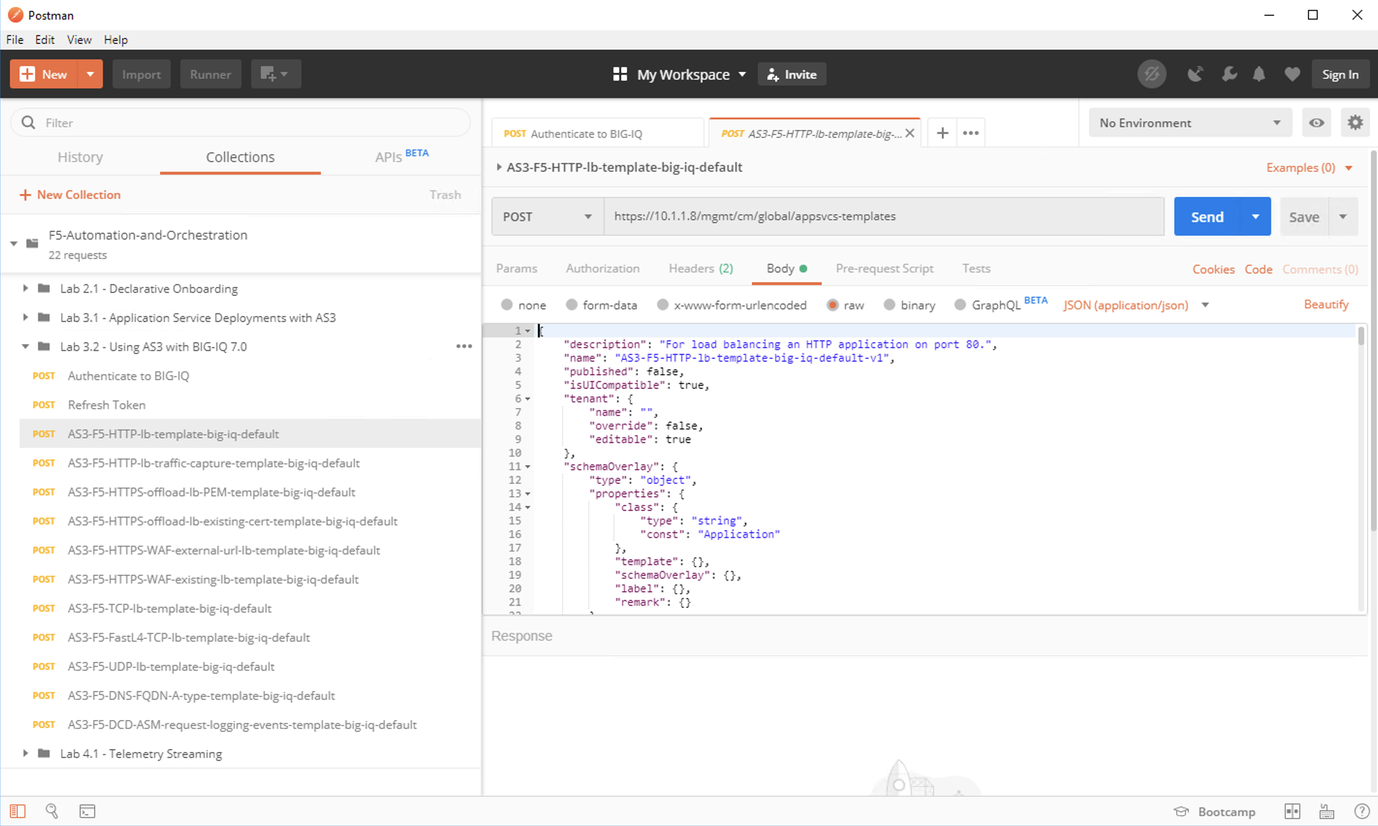
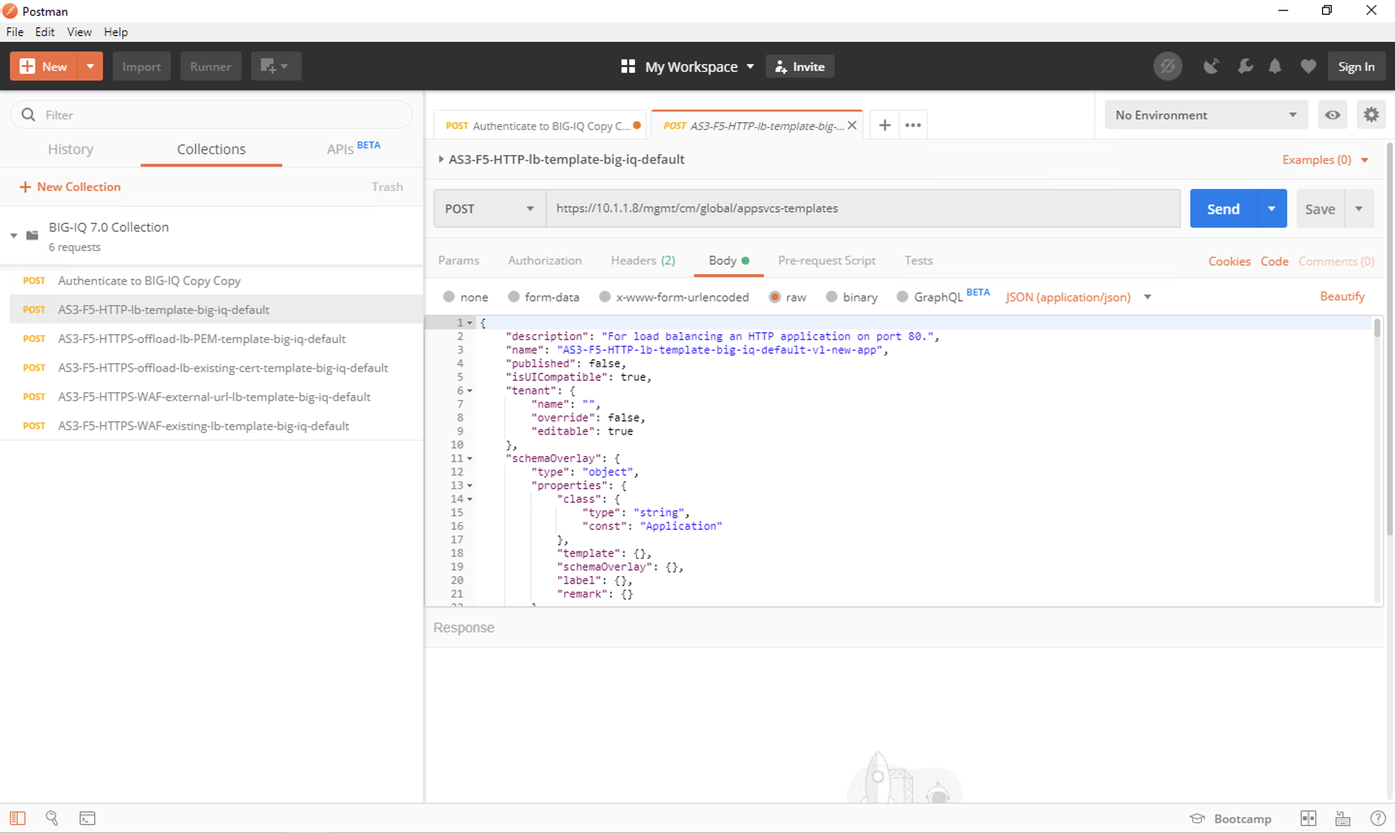
jack update

diff --git a/docs/_build/html/searchindex.js b/docs/_build/html/searchindex.js
@@ -1,1 +1,1 @@
-Search.setIndex({docnames:["class2/class2","class3/class3","class3/module/do","class4/class4","class4/module/lab1","class4/module/module","class4/module2/lab2","class4/module2/module2","class5/class5","class5/module/telemetry","index"],envversion:52,filenames:["class2/class2.rst","class3/class3.rst","class3/module/do.rst","class4/class4.rst","class4/module/lab1.rst","class4/module/module.rst","class4/module2/lab2.rst","class4/module2/module2.rst","class5/class5.rst","class5/module/telemetry.rst","index.rst"],objects:{},objnames:{},objtypes:{},terms:{"class":[2,4,9],"default":[2,4,6,9],"goto":[],"import":7,"new":[5,6,9],"true":[2,4],"var":[],"while":8,ASE:[],AWS:[0,8,10],And:[],DNS:[0,1,2,3,4,5,6,7,8,9,10],For:[6,8,9],IPs:2,One:[],That:[],The:[0,1,2,3,4,5,6,7,8,9,10],These:[],Use:[2,6],Using:[3,10],With:6,_build:[],_static:[],_templat:[],abl:6,abov:6,accept:[],access:[0,1,2,3,4,5,6,7,8,9,10],account:8,achiev:[],action:[4,9],activ:[],adc:4,add:[2,5,6,9],added:[],address:[0,2,6,9],admin123:0,admin:[0,2,4,6,9],administr:[0,9],adminstr:[2,4],admonit:[],advanc:[0,1,2,3,4,5,6,7,8,9,10],afm:[],after:[],again:[],agil:[],agnost:3,all:[0,2,4,9],allowservic:2,along:9,alpha:[],alreadi:[2,4],alredi:9,also:[4,9],amazon:[],amazoncloudwatch:[],amount:8,ani:9,anoth:3,ao_log_group:[],ao_log_stream:[],api:[0,1,2,3,4,5,6,7,8,9,10],apirefer:[],apm:[],app:[0,1,3,5,6,7,8,9,10],app_made_by_as3_templ:6,applianc:[],applic:[0,1,2,4,5,7,8,9,10],application_1:[],appropri:[],approv:0,appsvc:4,as3:[0,4,10],asm:[],aspect:10,assign:[],assum:[1,3,8],assumpt:[1,3,8],async:2,attach:9,attent:[],auth:[2,4,9],authent:6,authn:6,author:[2,4,9],autom:[0,1,2,3,4,5,6,7,8,9,10],automatit:6,avail:9,averag:8,avg:[],awesom:[],aws:8,aws_cloudwatch:9,back:[2,9],bad:[],ball:[],bar:[2,4,6,9],bare:[],basic:[2,4,9],bat:[],becaus:9,been:[0,9],befor:[],begin:9,being:9,below:[2,6,9],big:[0,1,3,5,8,10],bigip:4,bigiq_app_ten:[],bigiq_app_test:[],bigiq_public_api_ref:[],bigiqapp:[],bigiqv:[],bip:[],biq:[],blank:[],blob:[],block:[],blue:[6,9],blueprint:[2,4,9],board:[],bodi:[2,4,6,9],bold:[],bookmark:[6,9],border:[],both:[],bottom:[2,4,9],box:[4,6],bravo:[],browser:[0,1,4,6,8,9],bug:[0,1,2,3,4,5,6,7,8,9,10],build:[],busi:8,button:[2,4,6,9],call:[0,4],callout:[],can:[0,1,2,3,4,5,6,7,8,9,10],care:[],carefulli:[],caution:[],cell:[],cert:[],certif:[2,4,6,9],chang:6,charli:[],check:[2,4,6,9],choos:[],chrome:[0,2,4,6,9],ciphertext:9,claim:6,class1:[],class2:[],class3:[],class4:[],class5:[],class7:[1,3,8],classbold:[],classital:[],classnam:[],clear:4,click:[1,2,4,6,8,9],close:9,cloud:8,clouddoc:[1,2,3,8],cloudwatch:[8,10],code:[],collect:[5,7,8,9],com:[0,1,2,3,4,5,6,7,8,9,10],combin:9,command:[],common:[2,4,9],commun:[1,3,8],complet:[1,3,8],complianc:9,compon:[0,2,4,9],comput:2,conf:[],config:[],configur:[1,3,5,8,10],connect:8,consol:9,consum:8,contain:[0,1,2,3,4,5,6,7,8,9,10],content:[0,1,2,3,4,5,6,7,8,9,10],control:[0,1,2,3,4,5,6,7,8,9,10],conveni:[],copi:9,correct:4,correspond:6,could:8,cover:[],creat:[5,7,9],credenti:[0,2,4,9],crowbar:[],current:9,custom:[],custom_filtter_1:[],custom_metric_1:[],cut:[],cutter:[],dai:[8,9],danger:[],dash:[],dashboard:9,data:8,datacent:[],dcd:0,declar:[0,5,6,9,10],declarati:6,delet:4,deliveri:[0,1,2,3,4,5,6,7,8,9,10],demo:[1,2,3,4,8,9],deploi:[5,8,10],deploy:[2,4,6,9],descript:[],desktop:6,detail:[2,4,9],dev:1,devic:2,devop:[0,1,2,3,4,5,6,7,8,9,10],differ:[],disabl:[],dismiss:9,dist:[],dns:[],doc:[],document:8,don:2,done:[],dot:[2,4,9],down:[],download:9,dropdown:[2,4,6,8,9],drwxr:[],durat:9,edit:[0,1,2,3,4,5,6,7,8,9,10],electr:[],element:[],email:1,emphasi:[],empti:6,enabl:[],end:[2,4,6,9],enforc:[0,1,2,3,4,5,6,7,8,9,10],enhanc:[0,1,2,3,4,5,6,7,8,9,10],ensur:6,enter:[2,4,6,8,9],entri:9,environ:10,equival:[],error:6,etc:6,eval:[],examin:[],exampl:[],exclus:0,existing_pool:9,existing_v:9,exit:[2,4,9],expand:[2,4,9],expect:[1,3,8],expir:6,expos:9,extend:8,extens:[2,10],extern:[0,2],external_default_gatewai:2,extrem:[],f5devcentr:[0,1,2,3,4,5,6,7,8,9,10],f5i:[],f5network:[],facilit:[1,3,8],fals:2,familiar:10,featur:6,feder:[1,8,9],few:0,figur:[],file:[2,4,6,9],filter:[],find:9,firefox:[],firewal:[0,1,2,3,4,5,6,7,8,9,10],first:[],fix:6,flow:[],focu:[],folder:6,follow:[0,1,2,3,4,6,8,9],font:[],fontawesom:[],fonticon:[],format:[],found:9,four:[],from:[0,1,2,3,4,5,7,8,9,10],full:[0,1,2,3,4,5,6,7,8,9,10],futur:9,gear:[],gener:[1,2,4,6,8,10],get:[1,3,4,8,9,10],github:[0,1,2,3,4,5,7,8,9,10],githubusercont:6,give:9,global:[0,1,2,3,4,5,6,7,8,9,10],gmsmr:2,goal:[1,3,8],going:6,goodbaklava123:[0,2,6],googl:0,govern:9,grai:[],grap:[],graph:[],great:[],green:[2,4,9],grei:[2,4,9],grid:[],group:[2,8,10],gtm:[],gui:6,guid:[1,3,8],guidelin:[],hammer:[],handi:1,hardwar:[],has:[2,4,6],have:[0,2,4,9],header:[],heavi:[],help:10,here:[0,1,2,3,4,5,6,7,8,9,10],highlight:9,hint:[],home:[],host:8,hostnam:[2,6],hour:[1,3,8],how:[1,3,5,7,8],howev:[],html:[1,2,3,8],http:[0,1,2,3,4,5,6,7,8,9,10],http_basic:4,http_default:4,http_index:4,http_pool:4,http_profil:[],hyperlink:[],hypervisor:[],iam:[8,10],iapp:[],icon:[],icontrol:[0,1,2,3,4,5,6,7,8,9,10],ident:9,ieldt:2,ignor:[],iii:[],imag:[],image001:[],inc:[0,1,2,3,4,5,6,7,8,9,10],includ:0,index:[],info:[2,9],inform:[6,8],insert:[],insight:9,inspect:9,instal:[0,2],instruct:[],instructor:[],integr:[1,3,8],intellig:[0,1,2,3,4,5,6,7,8,9,10],interact:0,interfac:2,intern:[0,2],interv:9,intro:[],invalid:6,ipi:[],isn:2,issu:[0,1,2,3,4,5,6,7,8,9,10],ital:[],item:[],its:9,iwf:[],iworkflow:[0,1,2,3,4,5,6,7,8,9,10],jaustinf5:6,json:[2,4,6,9],jsp:[],jump:[],jumphost:0,jumppost:0,jun:[],justif:8,keep:1,kei:[0,1,2,8,9],knife:[],knive:[],know:[1,3,8],kqokz:2,lab1:[1,3,8],lab2:[],lab:[1,2,3,4,6,8,9],label:[],lamp:[],languag:[],latest:2,learn:[5,7],left:[2,4,6,9],let:9,leverag:[0,1,2,3,4,5,6,7,8,9,10],lic:[],licens:[1,2],licensetyp:2,lick:[],lift:[],light:[],like:[],line:2,link:6,linux:0,list:[2,9],load:6,local:[0,1,2,3,4,5,6,7,8,9,10],locat:[],log:[2,8,10],loggroup:9,login:[5,6,9],logstream:9,look:[],ltm:2,lwbzexewl9at:[],machin:0,made:[0,1,2,3,4,5,6,7,8,9,10],mai:[],main:0,make:[0,4,6],makefil:[],manag:[0,1,2,3,4,5,6,7,8,9,10],mani:8,manual:2,map:[6,9],mark:[],markdown:[],markup:[],mart:[],master:6,math:[],member:4,menu:[2,4,6,9],method:[2,4,8,9],metric:[],mgmt:[2,4,6,9],mine:6,minut:[],modifi:[],modul:[5,7,9],module1:[1,3,8],module2:[],monitor:4,monitortyp:[],more:[],mtu:2,muczt:2,must:[],my_as3_app:4,my_as3_ten:4,my_consum:9,my_listen:9,my_log_group:9,my_system:9,my_us:9,mydn:2,mylicens:2,myntp:2,myprovis:2,name:[2,4,6,9],nameserv:2,navig:[1,2,4,6,8,9],need:[],nest:6,net:[],network:[0,1,2,3,4,5,6,7,8,9,10],new_partit:4,newli:[2,4,9],next:[1,2,4,6,9],noarch:[],nomin:2,none:2,note:9,notic:6,novfibg:2,now:[2,4,6,8],ntp:2,number:[],off:[2,4,6,9],onboard:[0,6,10],onc:[0,6,9],one:[2,3,4,9],onli:2,onto:[],open:[0,1,2,3,4,5,6,7,8,9,10],option:[],orchestr:[0,1,2,3,4,5,6,7,8,9,10],order:[],org:2,origin:[],other:[],our:[4,6],out:0,outsid:0,overwrit:2,packag:9,page:[2,4,6,9],pane:[],partit:[4,6,9],passphras:9,password:[2,4,6,9],past:[2,4,6,9],patch:2,perform:0,permiss:9,persist:4,phase:[],phillip:[],photo:[],pipelin:[0,1,2,3,4,5,6,7,8,9,10],place:[],plane:[],platform:8,pleas:[],png:[],point:0,polici:[0,1,2,3,4,5,6,7,8,9,10],pool:[0,2,4,6,9],pool_with_vip:[],pop:[2,4,6,9],port:[6,9],post:[2,4,9],postman:[0,1,3,5,7,8,10],postman_collect:6,power:[],pre:6,preconfigur:9,prefer:0,prerequisit:[1,8],present:[2,4,9],previou:4,print:[],produc:9,product:2,profilehttp:4,programm:[],programmat:9,properti:6,provid:10,provis:2,publish:6,purpos:10,push:[],putti:[],queri:9,quickli:10,qweasdzxc123:[],r_auth_login:[],rackmount:[],radial:[2,4,9],rail:[],rather:[],raw:[2,4,6,9],rdp:[2,4,9],receiv:6,red:[],refer:[],refresh:[],refreshtoken:[],reg:[],region:9,regist:6,registeremail:[],regkei:2,relev:8,reload:9,remark:[],remov:[],replac:[],repo:[],repositori:[0,1,2,3,4,5,6,7,8,9,10],request:[0,1,2,3,5,6,7,8,9,10],requir:0,resend:6,resourc:[],respect:6,respons:6,rest:[0,1,2,3,4,5,6,7,8,9,10],restructuredtext:[],result:9,review:9,revok:2,right:[6,9],root:[],rout:2,row:[],rpm:[2,9],rst:[],run:9,safeti:[],sale:[],same:[],sampl:[],save:[2,4,9],schemavers:[2,4],scope:[],screen:[2,4,9],screenshot:[],screwdriv:[],scroll:[],search:[2,4,8,9],second:[],secret:[8,9],section:[1,3,4,6,8,9],secur:[0,1,2,3,4,5,6,7,8,9,10],see:[2,6,9],seen:6,select:[2,4,6,8,9],self:2,selfip:2,send:[1,5,7],server:[0,2,6,9],serveraddress:4,servic:[4,6,8,9,10],service_gener:4,service_http:6,servicenow:[],serviceport:4,session:9,set:[1,2,4,6,9],setup:[0,8,10],share:[2,4,6,9],sharp:[],shell:[],should:[2,4],show:[],shown:[],sign:[2,4,9],similar:6,simpl:[],simplifi:3,sinc:[],site:[],skip:[2,4,9],soap:[0,1,2,3,4,5,6,7,8,9,10],softwar:[],some:10,sourc:[0,1,2,3,4,5,6,7,8,9,10],span:[],sphinx:[],spin:[],ssl:[2,4,6,9],stabl:[],staff:[],stand:[],start:[1,3,4,8,10],statu:2,step:4,sticki:9,store:6,straight:[2,4,9],stream:[0,9,10],submit:8,substitut:[],success:[],sum:[],support:[],sure:[4,6],surfac:[],syntax:[],sys:[],system:[0,2,4,9],systempol:9,tab:[2,4,6,9],tabl:[],tag:[2,9],take:[2,4,8,9],target:6,task:[],teach:[],technolog:8,telemetri:[0,9,10],telemetry_consum:9,telemetry_listen:9,telemetry_system:9,templat:[4,7],tenant:[2,4,6],test:0,test_log_group:9,test_log_stream:9,test_us:[],text:[2,4,9],than:[],them:9,theme:[],themselv:[],thi:[0,1,2,3,4,5,6,7,8,9,10],thing:[0,2],three:[2,4,9],through:0,ticket:8,tile:[1,2,4,8,9],time:[1,3,4,8,9],timeout:[],timezon:2,tip:[],titl:6,tmo:[],tmsh:[],todo:[],todo_emit_warn:[],todo_include_todo:[],todolist:[],togeth:[],toggl:[2,4,9],token:6,tool:1,toolchain:[2,4,9,10],top:[6,9],topic:[],topolog:10,total:[],touch:[],trace:4,traffic:[0,1,2,3,4,5,6,7,8,10],trafficgroup:2,train:[1,3,8],tree:[],turn:6,tutori:[1,3,8],two:[],type:[2,4,6,9],udf:[5,8,10],under:[2,4,9],unord:[],until:[2,4,9],upgrad:3,upload:[6,9],uri:[2,6],url:[2,4,9],use:[1,3,4,5,7,8],used:[],user:[8,10],usernam:[2,4,6,9],uses:8,using:[0,1,2,3,4,5,6,7,8,9,10],utc:2,util:2,v12:[],v13:0,v14:0,v16:[],valu:6,verif:[2,4,9],verifi:4,verificatt:6,verison:[],version:[3,6],via:[],view:[7,8,10],vip:6,virtual:[0,1,2,3,4,5,6,7,8,9,10],virtual_serv:4,virtualaddress:4,virtualport:4,vlan:[0,2],waf:[1,3,8],wai:0,wait:[2,4,9],want:8,warn:[],web:[],webserv:[],websit:[],welcom:10,west:2,when:[1,6],whenev:[],which:[0,2,4,9],win2016:[2,4,9],window:[0,2,4,6,9],within:[0,1,2,3,4,5,6,7,8,9,10],without:7,work:[0,6],workd:[],would:[],www:[],xubuntu:[],year:[],yes:[],ylwbzexewl9at:[0,2,4],you:[0,1,2,3,4,5,6,7,8,9,10],your:[0,1,2,6,8,9],zero:[]},titles:["1. Environments &amp; Lab Topology","2. Declarative Onboarding","2.1. Declarative Onboarding \u2013 Getting Started","3. Application Services 3 Extension (AS3)","3.1.1. Deploy UDF","3.1. AS3 \u2013 Getting Started","3.2.1. Using AS3 with BIG-IQ 7.0","3.2. Using AS3 with Big-IQ","4. Telemetry Streaming","4.1. Setup AWS CloudWatch IAM User","F5 Agility Labs - Index"],titleterms:{"class":[],"import":6,"new":4,AWS:9,One:[],Using:[6,7],With:[],accept:[],add:4,admonit:[],agil:10,also:[],app:[2,4],applianc:[],applic:[3,6],as3:[3,5,6,7],attent:[],autom:[],awesom:[],big:[2,4,6,7,9],browser:[],caution:[],chang:2,clear:[],cloudwatch:9,code:[],collect:[2,4,6],column:[],common:[],compon:[],configur:[2,4,9],connect:[],cord:[],creat:[2,4,6],custom:[],danger:[],datacent:[],declar:[1,2,4],deploi:[2,4,9],download:[],edit:[],emphasi:[],enabl:[],environ:0,error:[],exampl:[],extens:3,extern:[],file:[],font:[],format:[],four:[],from:6,gener:9,get:[2,5],giant:[],github:6,grid:[],group:9,hint:[],hyperlink:[],hypervisor:[],iam:9,icon:[],icontrol:[],imag:[],index:10,instal:[],instanc:[],intern:[],lab:[0,10],let:[],list:[],log:9,login:[2,4],map:[],markdown:[],markup:[],metric:[],modul:[],nest:[],network:[],note:[],onboard:[1,2],open:[],option:[],orchestr:[],order:[],partit:[],phase:[],postman:[2,4,6,9],power:[],pre:[],prerequisit:[],rack:[],rdp:[],request:4,requir:[],rpm:[],sampl:[],send:[2,4,6],servic:3,setup:9,show:[],simpl:[],start:[2,5,9],stream:8,stub:[],substitut:[],support:[],tabl:[],task:[],telemetri:8,templat:6,text:[],three:[],tip:[],tmsh:[],todo:[],togeth:[],topolog:0,traffic:9,turn:[],two:[],udf:[2,4,9],unord:[],unpack:[],upload:[],user:9,verifi:2,view:[6,9],virtual:[],warn:[],web:[],welcom:[],without:6,your:[]}})
+Search.setIndex({docnames:["class2/class2","class3/class3","class3/module/do","class4/class4","class4/module/lab1","class4/module/module","class4/module2/lab2","class4/module2/module2","class5/class5","class5/module/telemetry","index"],envversion:52,filenames:["class2/class2.rst","class3/class3.rst","class3/module/do.rst","class4/class4.rst","class4/module/lab1.rst","class4/module/module.rst","class4/module2/lab2.rst","class4/module2/module2.rst","class5/class5.rst","class5/module/telemetry.rst","index.rst"],objects:{},objnames:{},objtypes:{},terms:{"class":[2,4,9],"default":[2,4,6,9],"goto":[],"import":7,"new":[5,6,9],"true":[2,4],"var":[],"while":8,ASE:[],AWS:[0,8,10],And:[],DNS:[0,1,2,3,4,5,6,7,8,9,10],For:[6,8,9],IPs:2,One:[],That:[],The:[0,1,2,3,4,5,6,7,8,9,10],These:[],Use:[2,6],Using:[3,10],With:6,_build:[],_static:[],_templat:[],abl:6,abov:6,accept:[],access:[0,1,2,3,4,5,6,7,8,9,10],account:8,achiev:[],action:[4,9],activ:[],adc:4,add:[2,5,6,9],added:[],address:[0,2,6,9],admin123:[0,6],admin:[0,2,4,6,9],administr:[0,9],adminstr:[2,4],admonit:[],advanc:[0,1,2,3,4,5,6,7,8,9,10],afm:[],after:[],again:[],agil:[],agnost:3,all:[0,2,4,9],allowservic:2,along:9,alpha:[],alreadi:[2,4],alredi:9,also:[4,9],amazon:[],amazoncloudwatch:[],amount:8,ani:9,anoth:3,ao_log_group:[],ao_log_stream:[],api:[0,1,2,3,4,5,6,7,8,9,10],apirefer:[],apm:[],app:[0,1,3,5,6,7,8,9,10],app_made_by_as3_templ:6,applianc:[],applic:[0,1,2,4,5,7,8,9,10],application_1:[],appropri:[],approv:0,appsvc:4,as3:[0,4,10],asm:[],aspect:10,assign:[],assum:[1,3,8],assumpt:[1,3,8],async:2,attach:9,attent:[],auth:[2,4,9],authent:6,authn:6,author:[2,4,9],autom:[0,1,2,3,4,5,6,7,8,9,10],automatit:[],avail:9,averag:8,avg:[],awesom:[],aws:8,aws_cloudwatch:9,back:[2,9],bad:[],ball:[],bar:[2,4,6,9],bare:[],basic:[2,4,9],bat:[],becaus:9,been:[0,9],befor:[],begin:9,being:9,below:[2,6,9],big:[0,1,3,5,8,10],bigip:4,bigiq_app_ten:[],bigiq_app_test:[],bigiq_public_api_ref:[],bigiqapp:[],bigiqv:[],bip:[],biq:[],blank:[],blob:[],block:[],blue:[6,9],blueprint:[2,4,9],board:[],bodi:[2,4,6,9],bold:[],bookmark:[6,9],border:[],both:[],bottom:[2,4,9],box:[4,6],bravo:[],browser:[0,1,4,6,8,9],bug:[0,1,2,3,4,5,6,7,8,9,10],build:[],busi:8,button:[2,4,6,9],call:[0,4],callout:[],can:[0,1,2,3,4,5,6,7,8,9,10],care:[],carefulli:[],caution:[],cell:[],cert:[],certif:[2,4,6,9],chang:6,charli:[],check:[2,4,6,9],choos:[],chrome:[0,2,4,6,9],ciphertext:9,claim:6,class1:[],class2:[],class3:[],class4:[],class5:[],class7:[1,3,8],classbold:[],classital:[],classnam:[],clear:4,click:[1,2,4,6,8,9],close:9,cloud:8,clouddoc:[1,2,3,8],cloudwatch:[8,10],code:[],collect:[5,7,8,9],com:[0,1,2,3,4,5,6,7,8,9,10],combin:9,command:[],common:[2,4,9],commun:[1,3,8],complet:[1,3,8],complianc:9,compon:[0,2,4,9],comput:2,conf:[],config:[],configur:[1,3,5,8,10],connect:8,consol:9,consum:8,contain:[0,1,2,3,4,5,6,7,8,9,10],content:[0,1,2,3,4,5,6,7,8,9,10],control:[0,1,2,3,4,5,6,7,8,9,10],conveni:[],copi:9,correct:4,correspond:6,could:8,cover:[],creat:[5,7,9],credenti:[0,2,4,9],crowbar:[],current:9,custom:[],custom_filtter_1:[],custom_metric_1:[],cut:[],cutter:[],dai:[8,9],danger:[],dash:[],dashboard:9,data:8,datacent:[],dcd:0,declar:[0,5,6,9,10],declarati:[],delet:4,deliveri:[0,1,2,3,4,5,6,7,8,9,10],demo:[1,2,3,4,8,9],deploi:[5,8,10],deploy:[2,4,9],descript:[],desktop:6,detail:[2,4,9],dev:1,devic:2,devop:[0,1,2,3,4,5,6,7,8,9,10],differ:[],disabl:[],dismiss:9,dist:[],dns:[],doc:[],document:8,don:2,done:[],dot:[2,4,9],down:[],download:9,dropdown:[2,4,6,8,9],drwxr:[],durat:9,edit:[0,1,2,3,4,5,6,7,8,9,10],electr:[],element:[],email:1,emphasi:[],empti:6,enabl:[],end:[2,4,6,9],enforc:[0,1,2,3,4,5,6,7,8,9,10],enhanc:[0,1,2,3,4,5,6,7,8,9,10],ensur:6,enter:[2,4,6,8,9],entri:9,environ:10,equival:[],error:6,etc:[],eval:[],examin:[],exampl:[],exclus:0,existing_pool:9,existing_v:9,exit:[2,4,9],expand:[2,4,9],expect:[1,3,8],expir:6,expos:9,extend:8,extens:[2,10],extern:[0,2],external_default_gatewai:2,extrem:[],f5devcentr:[0,1,2,3,4,5,6,7,8,9,10],f5i:[],f5network:[],facilit:[1,3,8],fals:2,familiar:10,featur:6,feder:[1,8,9],few:0,figur:[],file:[2,4,6,9],filter:[],find:9,firefox:[],firewal:[0,1,2,3,4,5,6,7,8,9,10],first:[],fix:6,flow:[],focu:[],folder:[],follow:[0,1,2,3,4,6,8,9],font:[],fontawesom:[],fonticon:[],format:[],found:9,four:[],from:[0,1,2,3,4,5,7,8,9,10],full:[0,1,2,3,4,5,6,7,8,9,10],futur:9,gear:[],gener:[1,2,4,6,8,10],get:[1,3,4,8,9,10],github:[0,1,2,3,4,5,7,8,9,10],githubusercont:6,give:9,global:[0,1,2,3,4,5,6,7,8,9,10],gmsmr:2,goal:[1,3,8],going:6,goodbaklava123:[0,2,6],googl:0,govern:9,grai:[],grap:[],graph:[],great:[],green:[2,4,9],grei:[2,4,9],grid:[],group:[2,8,10],gtm:[],gui:6,guid:[1,3,8],guidelin:[],hammer:[],handi:1,hardwar:[],has:[2,4,6],have:[0,2,4,9],header:[],heavi:[],help:10,here:[0,1,2,3,4,5,6,7,8,9,10],highlight:9,hint:[],home:[],host:8,hostnam:[2,6],hour:[1,3,8],how:[1,3,5,7,8],howev:[],html:[1,2,3,8],http:[0,1,2,3,4,5,6,7,8,9,10],http_basic:4,http_default:4,http_index:4,http_pool:4,http_profil:[],hyperlink:[],hypervisor:[],iam:[8,10],iapp:[],icon:[],icontrol:[0,1,2,3,4,5,6,7,8,9,10],ident:9,ieldt:2,ignor:[],iii:[],imag:[],image001:[],inc:[0,1,2,3,4,5,6,7,8,9,10],includ:0,index:[],info:[2,9],inform:[6,8],insert:[],insight:9,inspect:9,instal:[0,2],instruct:[],instructor:[],integr:[1,3,8],intellig:[0,1,2,3,4,5,6,7,8,9,10],interact:0,interfac:2,intern:[0,2],interv:9,intro:[],invalid:6,ipi:[],isn:2,issu:[0,1,2,3,4,5,6,7,8,9,10],ital:[],item:[],its:9,iwf:[],iworkflow:[0,1,2,3,4,5,6,7,8,9,10],jaustinf5:6,json:[2,4,6,9],jsp:[],jump:[],jumphost:0,jumppost:0,jun:[],justif:8,keep:1,kei:[0,1,2,8,9],knife:[],knive:[],know:[1,3,8],kqokz:2,lab1:[1,3,8],lab2:[],lab:[1,2,3,4,6,8,9],label:[],lamp:[],languag:[],latest:2,learn:[5,7],left:[2,4,6,9],let:9,leverag:[0,1,2,3,4,5,6,7,8,9,10],lic:[],licens:[1,2],licensetyp:2,lick:[],lift:[],light:[],like:[],line:2,link:6,linux:0,list:[2,9],load:6,local:[0,1,2,3,4,5,6,7,8,9,10],locat:[],log:[2,8,10],loggroup:9,login:[5,6,9],logstream:9,look:[],ltm:2,lwbzexewl9at:[],machin:0,made:[0,1,2,3,4,5,6,7,8,9,10],mai:[],main:0,make:[0,4,6],makefil:[],manag:[0,1,2,3,4,5,6,7,8,9,10],mani:8,manual:2,map:[6,9],mark:[],markdown:[],markup:[],mart:[],master:6,math:[],member:4,menu:[2,4,6,9],method:[2,4,8,9],metric:[],mgmt:[2,4,6,9],mine:6,minut:[],modifi:[],modul:[5,7,9],module1:[1,3,8],module2:[],monitor:4,monitortyp:[],more:[],mtu:2,muczt:2,must:[],my_as3_app:4,my_as3_ten:4,my_consum:9,my_listen:9,my_log_group:9,my_system:9,my_us:9,mydn:2,mylicens:2,myntp:2,myprovis:2,name:[2,4,6,9],nameserv:2,navig:[1,2,4,6,8,9],need:[],nest:[],net:[],network:[0,1,2,3,4,5,6,7,8,9,10],new_partit:4,newli:[2,4,9],next:[1,2,4,6,9],noarch:[],nomin:2,none:2,note:9,notic:6,novfibg:2,now:[2,4,6,8],ntp:2,number:[],off:[2,4,6,9],onboard:[0,10],onc:[0,6,9],one:[2,3,4,9],onli:2,onto:[],open:[0,1,2,3,4,5,6,7,8,9,10],option:[],orchestr:[0,1,2,3,4,5,6,7,8,9,10],order:[],org:2,origin:[],other:[],our:[4,6],out:0,outsid:0,overwrit:2,packag:9,page:[2,4,6,9],pane:[],partit:[4,6,9],passphras:9,password:[2,4,6,9],past:[2,4,6,9],patch:2,perform:0,permiss:9,persist:4,phase:[],phillip:[],photo:[],pipelin:[0,1,2,3,4,5,6,7,8,9,10],place:[],plane:[],platform:8,pleas:[],png:[],point:0,polici:[0,1,2,3,4,5,6,7,8,9,10],pool:[0,2,4,6,9],pool_with_vip:[],pop:[2,4,6,9],port:[6,9],post:[2,4,9],postman:[0,1,3,5,7,8,10],postman_collect:6,power:[],pre:6,preconfigur:9,prefer:0,prerequisit:[1,8],present:[2,4,9],previou:4,print:[],produc:9,product:2,profilehttp:4,programm:[],programmat:9,properti:6,provid:10,provis:2,publish:6,purpos:10,push:[],putti:[],queri:9,quickli:10,qweasdzxc123:[],r_auth_login:[],rackmount:[],radial:[2,4,9],rail:[],rather:[],raw:[2,4,6,9],rdp:[2,4,9],receiv:6,red:[],refer:[],refresh:[],refreshtoken:[],reg:[],region:9,regist:6,registeremail:[],regkei:2,relev:8,reload:9,remark:[],remov:[],replac:[],repo:[],repositori:[0,1,2,3,4,5,6,7,8,9,10],request:[0,1,2,3,5,6,7,8,9,10],requir:0,resend:6,resourc:[],respect:[],respons:6,rest:[0,1,2,3,4,5,6,7,8,9,10],restructuredtext:[],result:9,review:9,revok:2,right:[6,9],root:[],rout:2,row:[],rpm:[2,9],rst:[],run:9,safeti:[],sale:[],same:[],sampl:[],save:[2,4,9],schemavers:[2,4],scope:[],screen:[2,4,9],screenshot:[],screwdriv:[],scroll:[],search:[2,4,8,9],second:[],secret:[8,9],section:[1,3,4,6,8,9],secur:[0,1,2,3,4,5,6,7,8,9,10],see:[2,6,9],seen:6,select:[2,4,6,8,9],self:2,selfip:2,send:[1,5,7],server:[0,2,6,9],serveraddress:4,servic:[4,8,9,10],service_gener:4,service_http:6,servicenow:[],serviceport:4,session:9,set:[1,2,4,6,9],setup:[0,8,10],share:[2,4,6,9],sharp:[],shell:[],should:[2,4],show:[],shown:[],sign:[2,4,9],similar:6,simpl:[],simplifi:3,sinc:[],site:[],skip:[2,4,9],soap:[0,1,2,3,4,5,6,7,8,9,10],softwar:[],some:10,sourc:[0,1,2,3,4,5,6,7,8,9,10],span:[],sphinx:[],spin:[],ssl:[2,4,6,9],stabl:[],staff:[],stand:[],start:[1,3,4,8,10],statu:2,step:4,sticki:9,store:6,straight:[2,4,9],stream:[0,9,10],submit:8,substitut:[],success:[],sum:[],support:[],sure:[4,6],surfac:[],syntax:[],sys:[],system:[0,2,4,9],systempol:9,tab:[2,4,6,9],tabl:[],tag:[2,9],take:[2,4,8,9],target:6,task:[],teach:[],technolog:8,telemetri:[0,9,10],telemetry_consum:9,telemetry_listen:9,telemetry_system:9,templat:[4,7],tenant:[2,4,6],test:0,test_log_group:9,test_log_stream:9,test_us:[],text:[2,4,9],than:[],them:9,theme:[],themselv:[],thi:[0,1,2,3,4,5,6,7,8,9,10],thing:[0,2],three:[2,4,9],through:0,ticket:8,tile:[1,2,4,8,9],time:[1,3,4,8,9],timeout:[],timezon:2,tip:[],titl:6,tmo:[],tmsh:[],todo:[],todo_emit_warn:[],todo_include_todo:[],todolist:[],togeth:[],toggl:[2,4,9],token:6,tool:1,toolchain:[2,4,9,10],top:[6,9],topic:[],topolog:10,total:[],touch:[],trace:4,traffic:[0,1,2,3,4,5,6,7,8,10],trafficgroup:2,train:[1,3,8],tree:[],turn:6,tutori:[1,3,8],two:[],type:[2,4,6,9],udf:[5,8,10],under:[2,4,9],unord:[],until:[2,4,9],upgrad:3,upload:[6,9],uri:[2,6],url:[2,4,9],use:[1,3,4,5,7,8],used:[],user:[8,10],usernam:[2,4,6,9],uses:8,using:[0,1,2,3,4,5,6,7,8,9,10],utc:2,util:2,v12:[],v13:0,v14:0,v16:[],valu:6,verif:[2,4,9],verifi:4,verificatt:6,verison:[],version:[3,6],via:[],view:[7,8,10],vip:6,virtual:[0,1,2,3,4,5,6,7,8,9,10],virtual_serv:4,virtualaddress:4,virtualport:4,vlan:[0,2],waf:[1,3,8],wai:0,wait:[2,4,9],want:8,warn:[],web:[],webserv:[],websit:[],welcom:10,west:2,when:[1,6],whenev:[],which:[0,2,4,9],win2016:[2,4,9],window:[0,2,4,6,9],within:[0,1,2,3,4,5,6,7,8,9,10],without:7,work:[0,6],workd:[],would:[],www:[],xubuntu:[],year:[],yes:[],ylwbzexewl9at:[0,2,4],you:[0,1,2,3,4,5,6,7,8,9,10],your:[0,1,2,6,8,9],zero:[]},titles:["1. Environments &amp; Lab Topology","2. Declarative Onboarding","2.1. Declarative Onboarding \u2013 Getting Started","3. Application Services 3 Extension (AS3)","3.1.1. Deploy UDF","3.1. AS3 \u2013 Getting Started","3.2.1. Using AS3 with BIG-IQ 7.0","3.2. Using AS3 with Big-IQ","4. Telemetry Streaming","4.1. Setup AWS CloudWatch IAM User","F5 Agility Labs - Index"],titleterms:{"class":[],"import":6,"new":4,AWS:9,One:[],Using:[6,7],With:[],accept:[],add:4,admonit:[],agil:10,also:[],app:[2,4],applianc:[],applic:[3,6],as3:[3,5,6,7],attent:[],autom:[],awesom:[],big:[2,4,6,7,9],browser:[],caution:[],chang:2,clear:[],cloudwatch:9,code:[],collect:[2,4,6],column:[],common:[],compon:[],configur:[2,4,9],connect:[],cord:[],creat:[2,4,6],custom:[],danger:[],datacent:[],declar:[1,2,4],deploi:[2,4,9],download:[],edit:[],emphasi:[],enabl:[],environ:0,error:[],exampl:[],extens:3,extern:[],file:[],font:[],format:[],four:[],from:6,gener:9,get:[2,5],giant:[],github:6,grid:[],group:9,hint:[],hyperlink:[],hypervisor:[],iam:9,icon:[],icontrol:[],imag:[],index:10,instal:[],instanc:[],intern:[],lab:[0,10],let:[],list:[],log:9,login:[2,4],map:[],markdown:[],markup:[],metric:[],modul:[],nest:[],network:[],note:[],onboard:[1,2],open:[],option:[],orchestr:[],order:[],partit:[],phase:[],postman:[2,4,6,9],power:[],pre:[],prerequisit:[],rack:[],rdp:[],request:4,requir:[],rpm:[],sampl:[],send:[2,4,6],servic:3,setup:9,show:[],simpl:[],start:[2,5,9],stream:8,stub:[],substitut:[],support:[],tabl:[],task:[],telemetri:8,templat:6,text:[],three:[],tip:[],tmsh:[],todo:[],togeth:[],topolog:0,traffic:9,turn:[],two:[],udf:[2,4,9],unord:[],unpack:[],upload:[],user:9,verifi:2,view:[6,9],virtual:[],warn:[],web:[],welcom:[],without:6,your:[]}})

diff --git a/docs/_build/html/class4/module2/lab2.html b/docs/_build/html/class4/module2/lab2.html
@@ -148,12 +148,13 @@ and then send that AS3 template to a target BIG-IP (10.1.1.7 for this lab).</p>
 <p>4. Use the Postman Import feature to import the pre-made Postman Collection.
 To do this: (1) Click the Import button. (2) Click Import from Link.
 (3) For the Postman Collection, paste in the following and (4) click Import.</p>
-<div class="highlight-text notranslate"><div class="highlight"><pre><span></span>https://raw.githubusercontent.com/jaustinf5/postman_collection/master/F5-Automation-and-Orchestration.postman_collection.json
+<div class="highlight-text notranslate"><div class="highlight"><pre><span></span>https://raw.githubusercontent.com/jaustinf5/postman_collection/master/BIG-IQ 7.0 Collection.postman_collection.json
 </pre></div>
 </div>
 <img alt="../../_images/7_2.png" src="../../_images/7_2.png" />
-<p>5. Once imported, you will be able to see the Postman Collection “F5-Automatition-and-Orchestration” as seen below.
-Click the Collection to see nested folders (Lab 2.1 Declaratiive Onboarding, 3.1 Application Service Deployment with AS3, etc.) and their respective requests.</p>
+<ol class="arabic simple" start="5">
+<li>Once imported, you will be able to see the Postman Collection “BIG-IQ 7.0 Collection” as seen below.</li>
+</ol>
 <img alt="../../_images/7_3.png" src="../../_images/7_3.png" />
 </div>
 <div class="section" id="send-as3-templates-to-big-iq-with-postman">
@@ -164,7 +165,7 @@ Click the Collection to see nested folders (Lab 2.1 Declaratiive Onboarding, 3.1
 </div>
 <p>When we send the declaration, the template will be stored on the BIG-IQ.</p>
 <ol class="arabic simple">
-<li>Click into “Lab 3.2 - Using AS3 with BIG-IQ 7.0” and open the request, “Authenticate to BIG-IQ”.</li>
+<li>Click into “BIG-IQ 7.0 Collection” and open the request, “Authenticate to BIG-IQ”.</li>
 <li>Open the “Body” tab to view the JSON declaration as seen below.</li>
 </ol>
 <img alt="../../_images/7_4.png" src="../../_images/7_4.png" />
@@ -187,7 +188,7 @@ Click the Collection to see nested folders (Lab 2.1 Declaratiive Onboarding, 3.1
 <h1>3.2.5. Create an Application with an AS3 Template in BIG-IQ<a class="headerlink" href="#create-an-application-with-an-as3-template-in-big-iq" title="Permalink to this headline">¶</a></h1>
 <ol class="arabic simple">
 <li>Open Chrome and navigate to the bookmark titled “BIG-IQ (10.1.1.8)”.</li>
-<li>Login to the BIG-IQ: username = admin, password = GoodBaklava123&#64;</li>
+<li>Login to the BIG-IQ: username = admin, password = Admin123&#64;</li>
 <li>Click the Applications tab. In the left menu bar, select Application Templates. Now you will see your uploaded template.</li>
 </ol>
 <img alt="../../_images/7_8.png" src="../../_images/7_8.png" />

diff --git a/docs/class4/module2/lab2.rst b/docs/class4/module2/lab2.rst
@@ -33,12 +33,11 @@ To do this: (1) Click the Import button. (2) Click Import from Link.
 
 .. code-block:: text 
     
-    https://raw.githubusercontent.com/jaustinf5/postman_collection/master/F5-Automation-and-Orchestration.postman_collection.json
+    https://raw.githubusercontent.com/jaustinf5/postman_collection/master/BIG-IQ 7.0 Collection.postman_collection.json
 
 .. image:: /_static/7_2.png
 
-5. Once imported, you will be able to see the Postman Collection "F5-Automatition-and-Orchestration" as seen below. 
-Click the Collection to see nested folders (Lab 2.1 Declaratiive Onboarding, 3.1 Application Service Deployment with AS3, etc.) and their respective requests.
+5. Once imported, you will be able to see the Postman Collection "BIG-IQ 7.0 Collection" as seen below. 
 
 .. image:: /_static/7_3.png
 
@@ -50,7 +49,7 @@ Send AS3 Templates to BIG-IQ with Postman
 .. NOTE:: The declarations titled "AS3-F5-\*-big-iq-default" are requests made by F5 that work with BIG-IQ 7.0. 
 When we send the declaration, the template will be stored on the BIG-IQ.
 
-1. Click into "Lab 3.2 - Using AS3 with BIG-IQ 7.0" and open the request, "Authenticate to BIG-IQ".
+1. Click into "BIG-IQ 7.0 Collection" and open the request, "Authenticate to BIG-IQ".
 
 2. Open the "Body" tab to view the JSON declaration as seen below.
 
@@ -78,7 +77,7 @@ Create an Application with an AS3 Template in BIG-IQ
 
 1. Open Chrome and navigate to the bookmark titled "BIG-IQ (10.1.1.8)".
 
-2. Login to the BIG-IQ: username = admin, password = GoodBaklava123@
+2. Login to the BIG-IQ: username = admin, password = Admin123@
 
 3. Click the Applications tab. In the left menu bar, select Application Templates. Now you will see your uploaded template.
 
